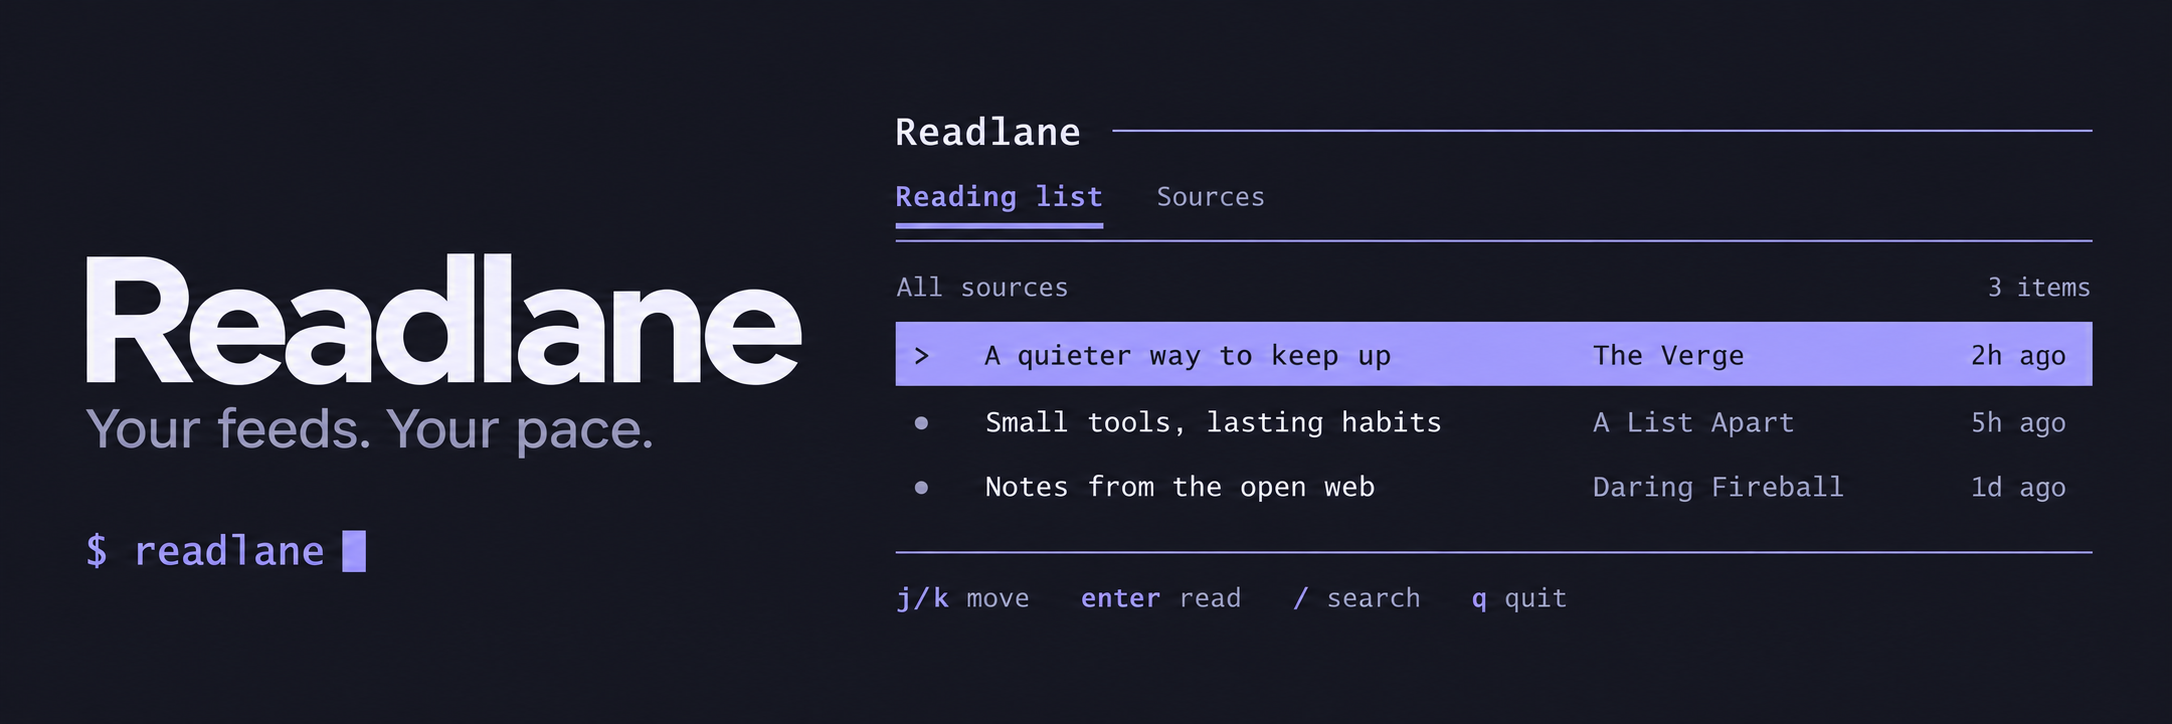
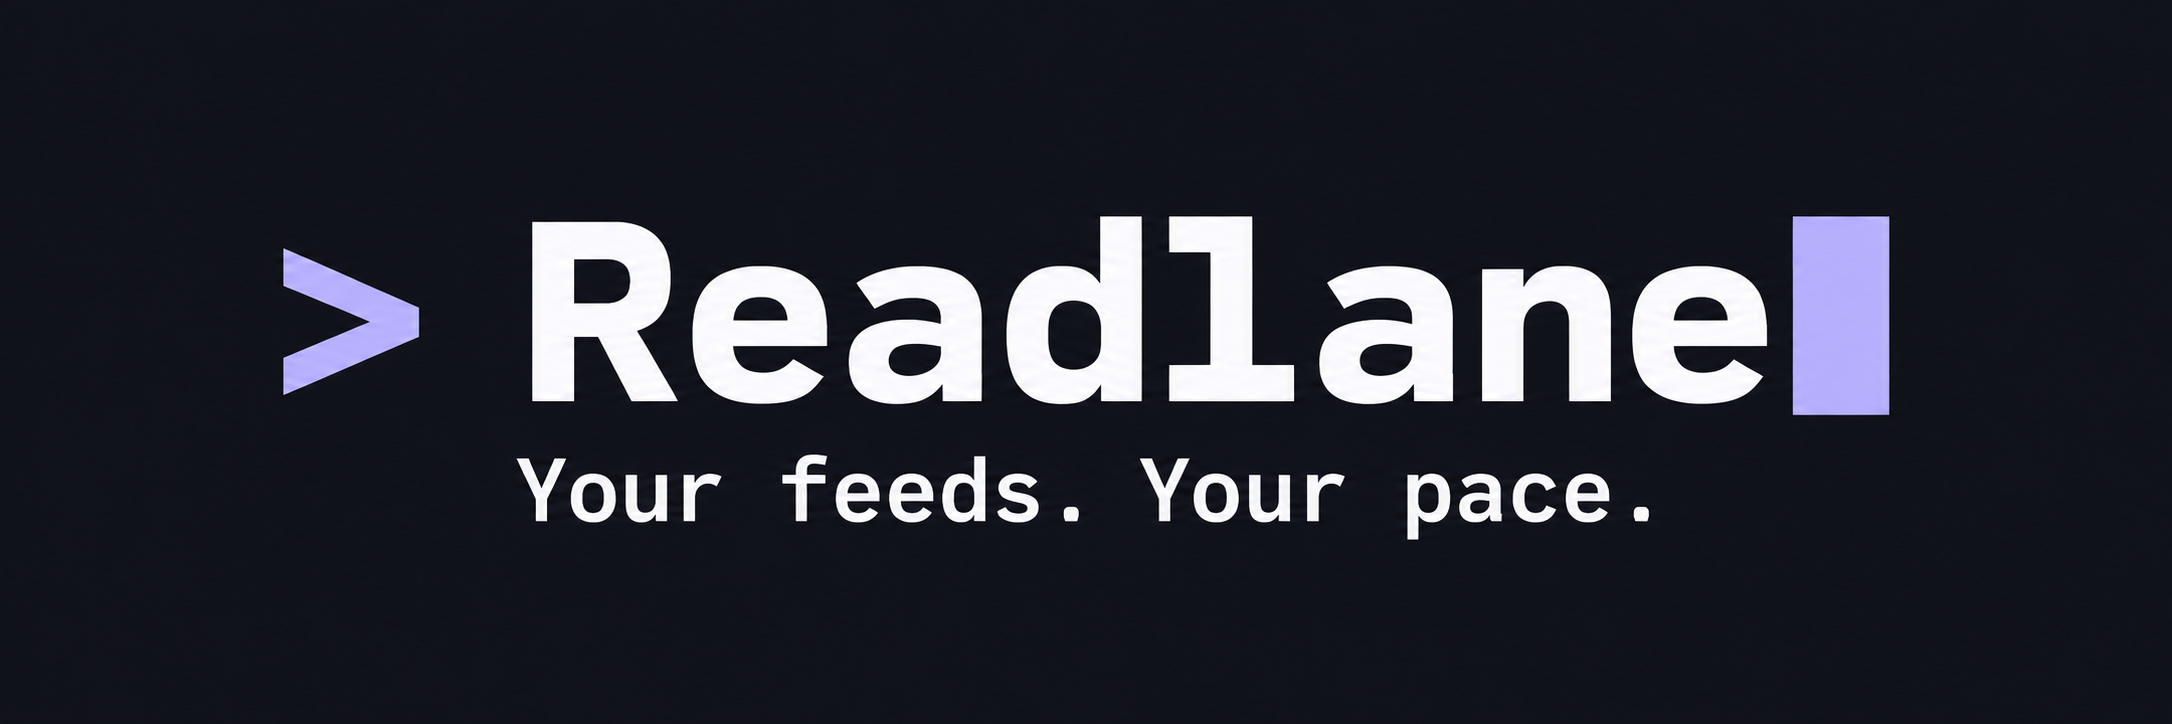
Simplify terminal cover for readable README typography

diff --git a/docs/brand.md b/docs/brand.md
@@ -14,9 +14,10 @@ and palette. Marketing should show those working behaviors and avoid claims
 about unread tracking, full-article extraction, hosted accounts, or readership
 numbers that the application does not support.
 
-The cover foregrounds a dark terminal reading list, a violet selection, a
-command prompt, and keyboard hints. It is illustrative artwork, not a product
-screenshot; story and publication pairings are fictional examples. Product text uses concrete labels:
+The cover uses a large monospace wordmark, violet prompt and block cursor,
+and a high-contrast tagline. Small interface text is deliberately omitted so
+the artwork stays readable at README widths. It is brand artwork, not a product
+screenshot. Product text uses concrete labels:
 Reading list, Sources, Search, Feed summary, and Read original.
 
 `DESIGN.md` is the durable visual contract and token source. The default web
@@ -28,7 +29,7 @@ fonts; terminals use their user's own typeface. OFL license files are bundled.
 
 The built-in image generation tool produced the cover. The final prompt was:
 
-> Use case: ads-marketing. Asset type: replacement README cover for Readlane, a terminal-first RSS and Atom reader. Input image is the edit target and brand reference. Redesign it to strongly communicate a polished terminal product; remove the paper sheets and ribbon illustration completely. Keep the exact brand name "Readlane" and tagline "Your feeds. Your pace.", violet identity, and wide approximately 3:1 landscape composition. Make the entire canvas a deep midnight terminal background #171824, with restrained violet #AEA5FF accents and off-white #F0EFFA lettering. Left third: large perfectly spelled Readlane wordmark, smaller exact tagline, then a small monospace command "$ readlane" with a block cursor. Right two thirds: a crisp, flat, front-facing terminal reading list, editorially composed, generous spacing, fine box-drawing divider lines, no browser chrome, no laptop/device, no perspective. Terminal header "Readlane", navigation "Reading list   Sources", caption "All sources". Three short representative story titles: "A quieter way to keep up", "Small tools, lasting habits", "Notes from the open web". First row selected with a muted violet rectangular highlight and a simple > indicator. Footer in monospace: "j/k move   enter read   / search   q quit". Accurate readable typography, sparse terminal interface, aligned monospaced columns. This is illustrative cover artwork, not a claimed screenshot; keep it plausible and faithful to supported reading-list behavior. Premium developer-tool aesthetic, restrained, calm, strong typographic hierarchy; no neon, no green hacker code, no gradients, no glow, no paper illustration, no browser interface, no extra invented features or logos, no watermark. Opaque background.
+> Use case: ads-marketing. Asset type: revised Readlane README cover. Edit the supplied cover for excellent readability when displayed at only 800 pixels wide. Replace the dense multi-column reading list entirely. Keep the exact name "Readlane" and exact tagline "Your feeds. Your pace." Keep terminal-first identity, midnight background and violet palette. New composition: approximately 3:1 wide landscape, completely flat solid near-black #11121C canvas with a single oversized central terminal-style wordmark reading "> Readlane" in very bold crisp monospaced type, bright near-white #FAFAFF, the > glyph violet #B9B0FF, and a large solid violet block cursor immediately following the name. Below, the exact tagline "Your feeds. Your pace." in large medium-weight near-white type, high contrast, approximately one third the height of the wordmark. Very generous breathing room and balanced central alignment. Wordmark fills about 75% of the canvas width. Terminal feel comes ONLY from the monospace wordmark, > prompt and solid cursor, not from miniature UI. Remove ALL existing reading-list panels, rows, navigation, small commands, publisher names, timestamps, rules and footer hints. NO other text beyond "> Readlane" and "Your feeds. Your pace.". No texture, no scanlines, no fading, no highlights crossing letters, no blur, no glow, no gradients, no perspective, no 3D, no browser chrome, no decorative patterns, no watermark. Perfect spelling, clean letterforms, premium developer-tool typographic cover. Opaque background.
 
 The selected PNG was inspected for spelling and composition, then converted
 without resizing or cropping:
@@ -43,6 +44,7 @@ magick compare -metric AE source.png readlane-cover.webp null:
 exiftool -G1 -a -s readlane-cover.webp
 ```
 
+An 800-pixel-wide preview was inspected for text readability.
 The pixel comparison reported **0 differences**. ExifTool confirmed a lossless
 WebP at 2172×724 with only the two author-credit fields as descriptive metadata.
 Structural image properties and filesystem timestamps are not embedded creator

diff --git a/readme-assets/STYLE.md b/readme-assets/STYLE.md
@@ -8,8 +8,8 @@ constants, web CSS tokens, and the palette of the canonical README SVG icons.
 - Ink: `#20253B`; supporting text: `#626B80`; selection: `#EAE7FA`.
 - Terminal dark variants retain readable violet, ink, and supporting text.
 
-The 2172×724 README cover depicts a dark terminal reading list with violet
-selection, a command prompt, and keyboard hints,
+The 2172×724 README cover uses a large monospace wordmark, violet terminal
+prompt, and block cursor on a dark background,
 with the exact name **Readlane** and tagline **Your feeds. Your pace.**
 It was generated using the built-in image tool. See the [brand guide](../docs/brand.md)
 for its prompt and production record. The WebP is lossless; no resize or crop

diff --git a/DESIGN.md b/DESIGN.md
@@ -62,8 +62,8 @@
 
 ### Creative North Star
 A quiet reading lane inside the terminal: aligned monospace text, a violet
-selection, and visible keyboard controls. The cover pairs that reading list
-with a large wordmark and command prompt. Product screens stay quiet so the
+selection, and visible keyboard controls. The cover uses an oversized monospace
+wordmark, prompt, and block cursor for readability. Product screens stay quiet so the
 stories carry the attention.
 
 ### Product context and register

diff --git a/README.md b/README.md
@@ -1,4 +1,4 @@
-![Readlane — Your feeds. Your pace. A terminal reading list with violet selection and keyboard controls.](readme-assets/readlane-cover.webp)
+![Readlane — Your feeds. Your pace. Large terminal-style lettering with a violet prompt and cursor.](readme-assets/readlane-cover.webp)
 
 # Readlane — a terminal-first feed reader
 
